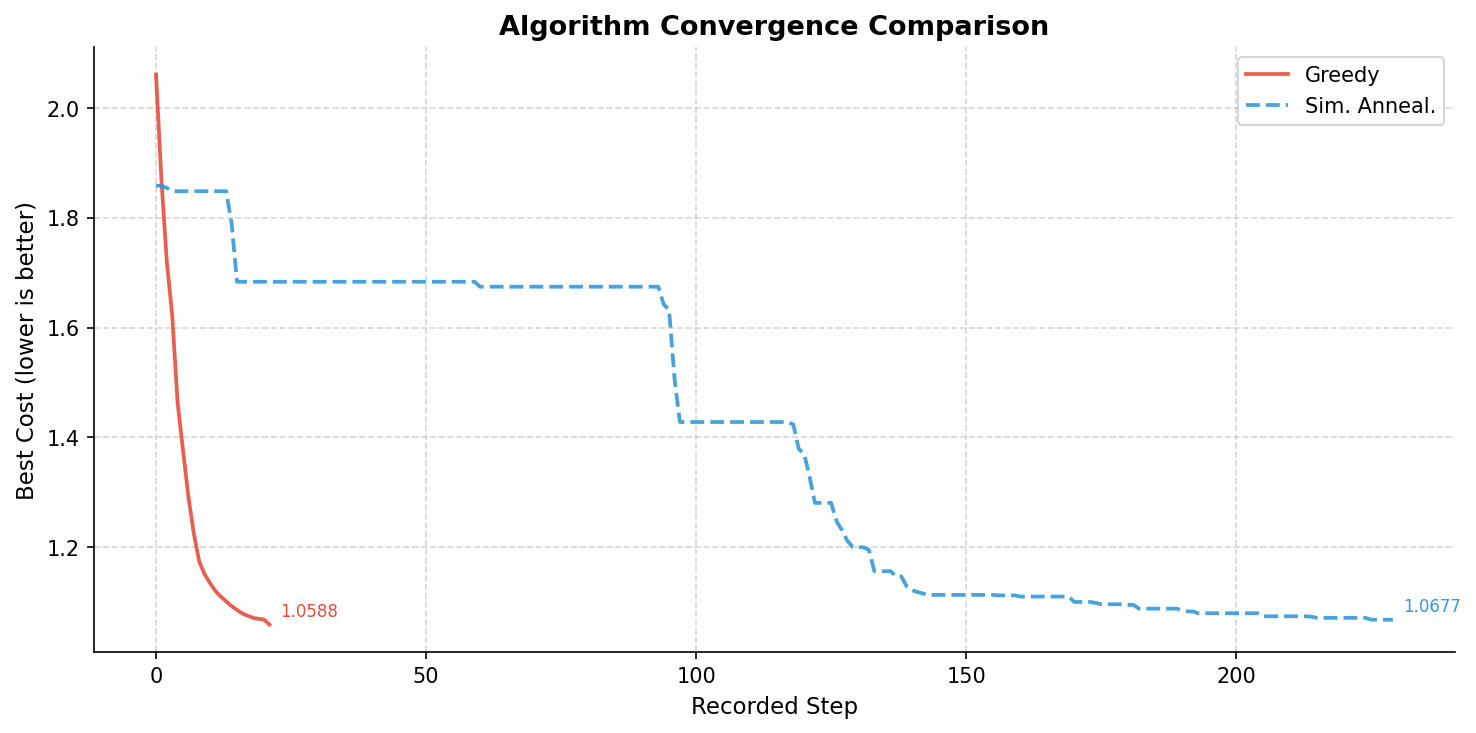
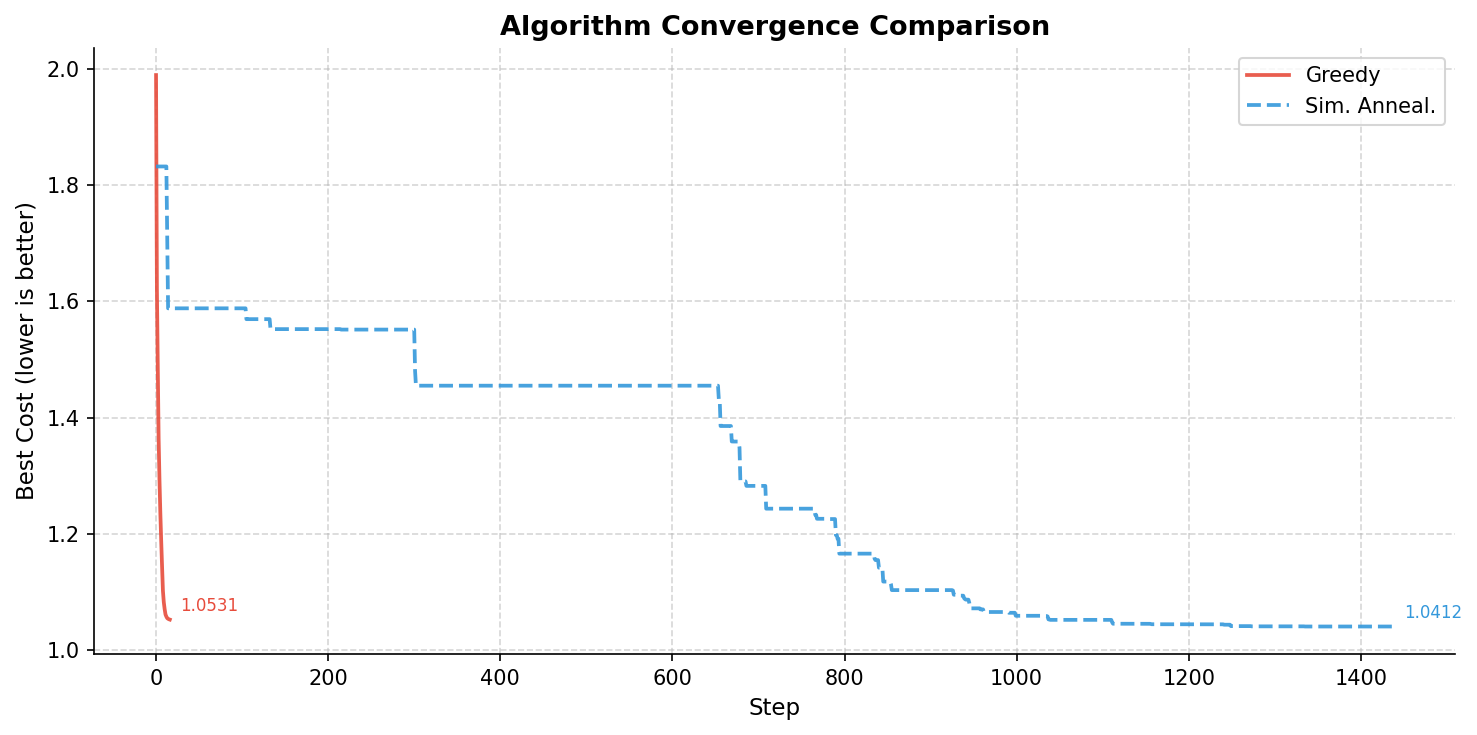
6개 키배열 결과 시각화

diff --git a/visualization.py b/visualization.py
@@ -200,7 +200,7 @@ def plot_heatmaps_comparison(
             layout_freq[ch] = freq.get(ch, 0.0)
         _draw_keyboard(
             ax, layout_str, layout_freq,
-            title=f"타건 빈도 히트맵 — {name}",
+            title=f"Key Frequency Heatmap — {name}",
             vmin=global_vmin, vmax=global_vmax,
         )
 
@@ -215,9 +215,9 @@ def plot_heatmaps_comparison(
 
 def plot_convergence(
     histories: dict,
-    title: str = "알고리즘 수렴 속도 비교",
-    xlabel: str = "기록 스텝",
-    ylabel: str = "최적 비용 (낮을수록 좋음)",
+    title: str = "Algorithm Convergence Comparison",
+    xlabel: str = "Step",
+    ylabel: str = "Best Cost (lower is better)",
     save_path: str = None,
     show: bool = True,
 ):
@@ -317,17 +317,17 @@ def plot_cost_breakdown(
     y = range(len(names))
     fig, ax = plt.subplots(figsize=(9, max(4, len(names) * 0.85)))
 
-    bars_d = ax.barh(y, d_vals, color="#3498db", label=f"이동거리 D (×{alpha})")
+    bars_d = ax.barh(y, d_vals, color="#3498db", label=f"Distance D (x{alpha})")
     bars_f = ax.barh(y, f_vals, left=d_vals, color="#e74c3c",
-                     label=f"동일손가락 피로도 F (×{beta})")
+                     label=f"Same-Finger Fatigue F (x{beta})")
     left_p = [d + f for d, f in zip(d_vals, f_vals)]
     bars_p = ax.barh(y, p_vals, left=left_p, color="#f39c12",
-                     label=f"한손 연속 패널티 P (×{gamma})")
+                     label=f"Same-Hand Penalty P (x{gamma})")
 
     ax.set_yticks(list(y))
     ax.set_yticklabels(names, fontsize=11)
-    ax.set_xlabel("가중 비용 구성 요소", fontsize=11)
-    ax.set_title("배열별 비용 구성 분석 (낮을수록 좋음)", fontsize=13, fontweight="bold")
+    ax.set_xlabel("Weighted Cost Components", fontsize=11)
+    ax.set_title("Cost Breakdown by Layout (lower is better)", fontsize=13, fontweight="bold")
     ax.legend(loc="lower right", fontsize=10)
     ax.grid(True, axis="x", linestyle="--", alpha=0.5)
     ax.spines["top"].set_visible(False)
